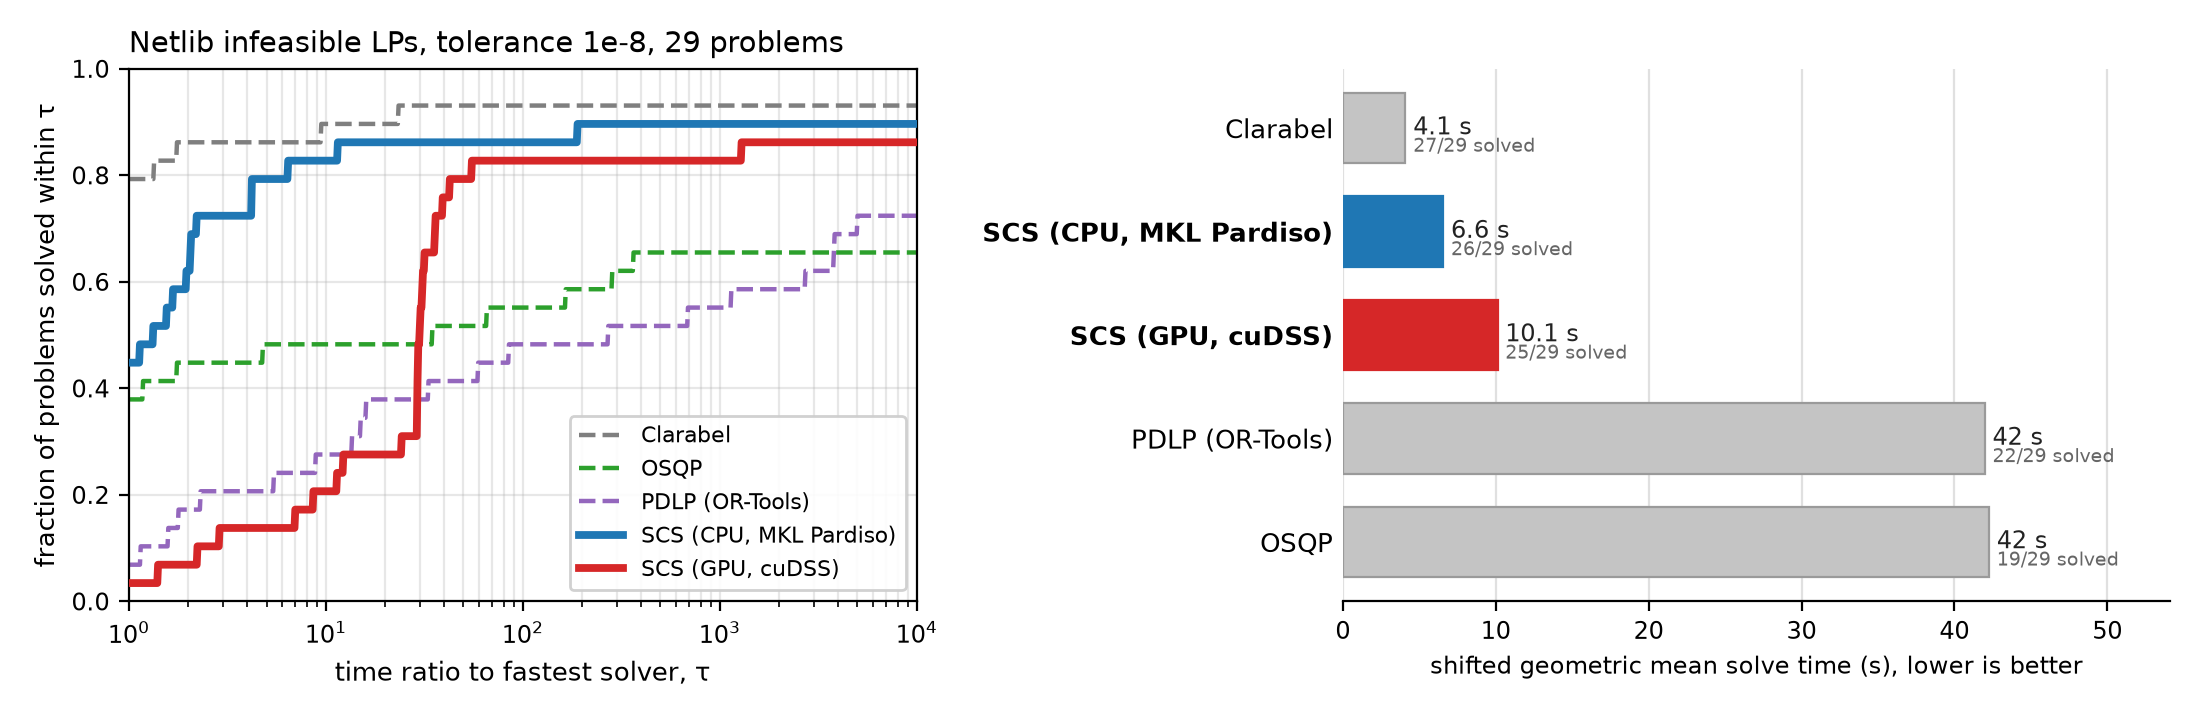
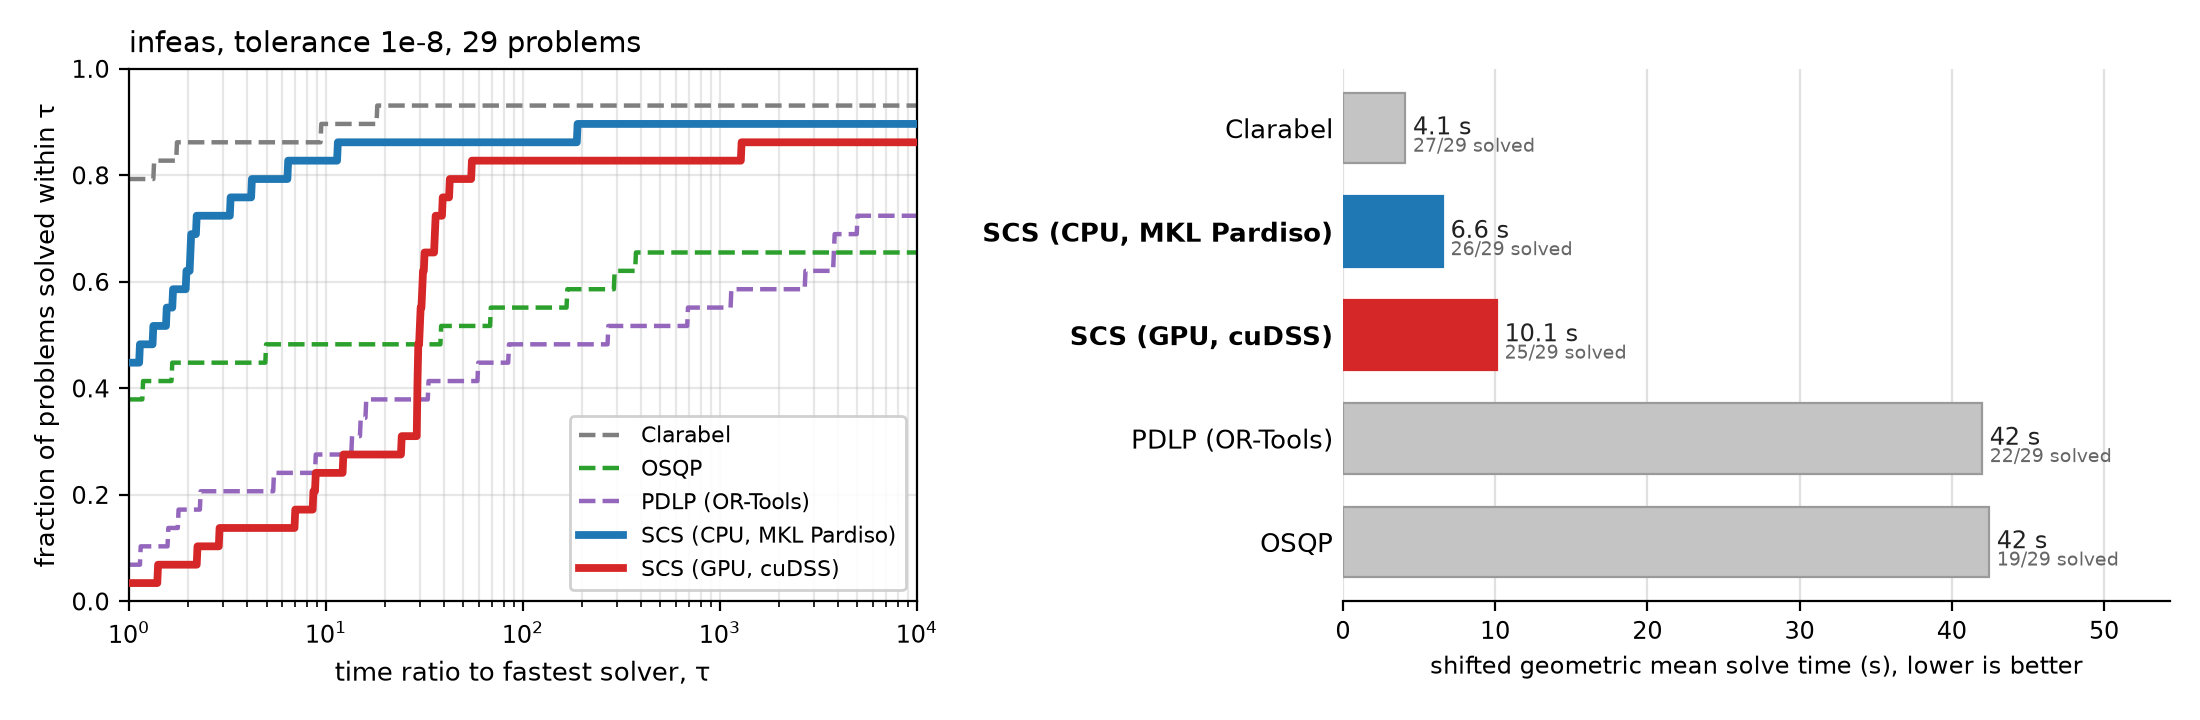
docs: infeasibility plot with OSQP at 1e-8; PDLP at its best (default certificate tolerance)

diff --git a/docs/src/benchmarks/index.rst b/docs/src/benchmarks/index.rst
@@ -608,13 +608,14 @@ gets all four by status, while CVXOPT's certificates fail the check and
 point the wrong way on the two unbounded instances.
 
 The plot compares the solvers that return certificates. Each is shown from
-the run in which it detected the most: for SCS and Clarabel that is the
-:math:`10^{-8}` solve tolerance with the infeasibility tolerance at
+the run in which it certified the most. For SCS, Clarabel and OSQP that is a
+solve tolerance of :math:`10^{-8}` with the certificate tolerance at
 :math:`10^{-4}`, since a tighter solve tolerance is what stops a near-feasible
-point from being accepted as optimal; OSQP and PDLP have no separate
-infeasibility tolerance and their :math:`10^{-6}` and :math:`10^{-5}` runs
-are their best, so nothing is asked of them that is not asked of the others.
-A verified
+point from being accepted as optimal (OSQP's certificate tolerances default
+to :math:`10^{-4}`). PDLP is shown from its :math:`10^{-5}` run with its
+default certificate tolerance of :math:`10^{-8}`: with that tolerance
+loosened to :math:`10^{-4}` its certificates mostly fail the check (16 of 28
+verify), so the default is its best setting here. A verified
 certificate counts as a solve and everything else as a failure, with the
 same failure charge as the other sets.
 
@@ -730,6 +731,14 @@ same failure charge as the other sets.
      - 0
      - 9
      - 1.62
+   * - OSQP, 1e-8
+     - 19
+     - 0
+     - 0
+     - 0
+     - 0
+     - 10
+     - 1.68
    * - PDLP (OR-Tools)
      - 22
      - 0
